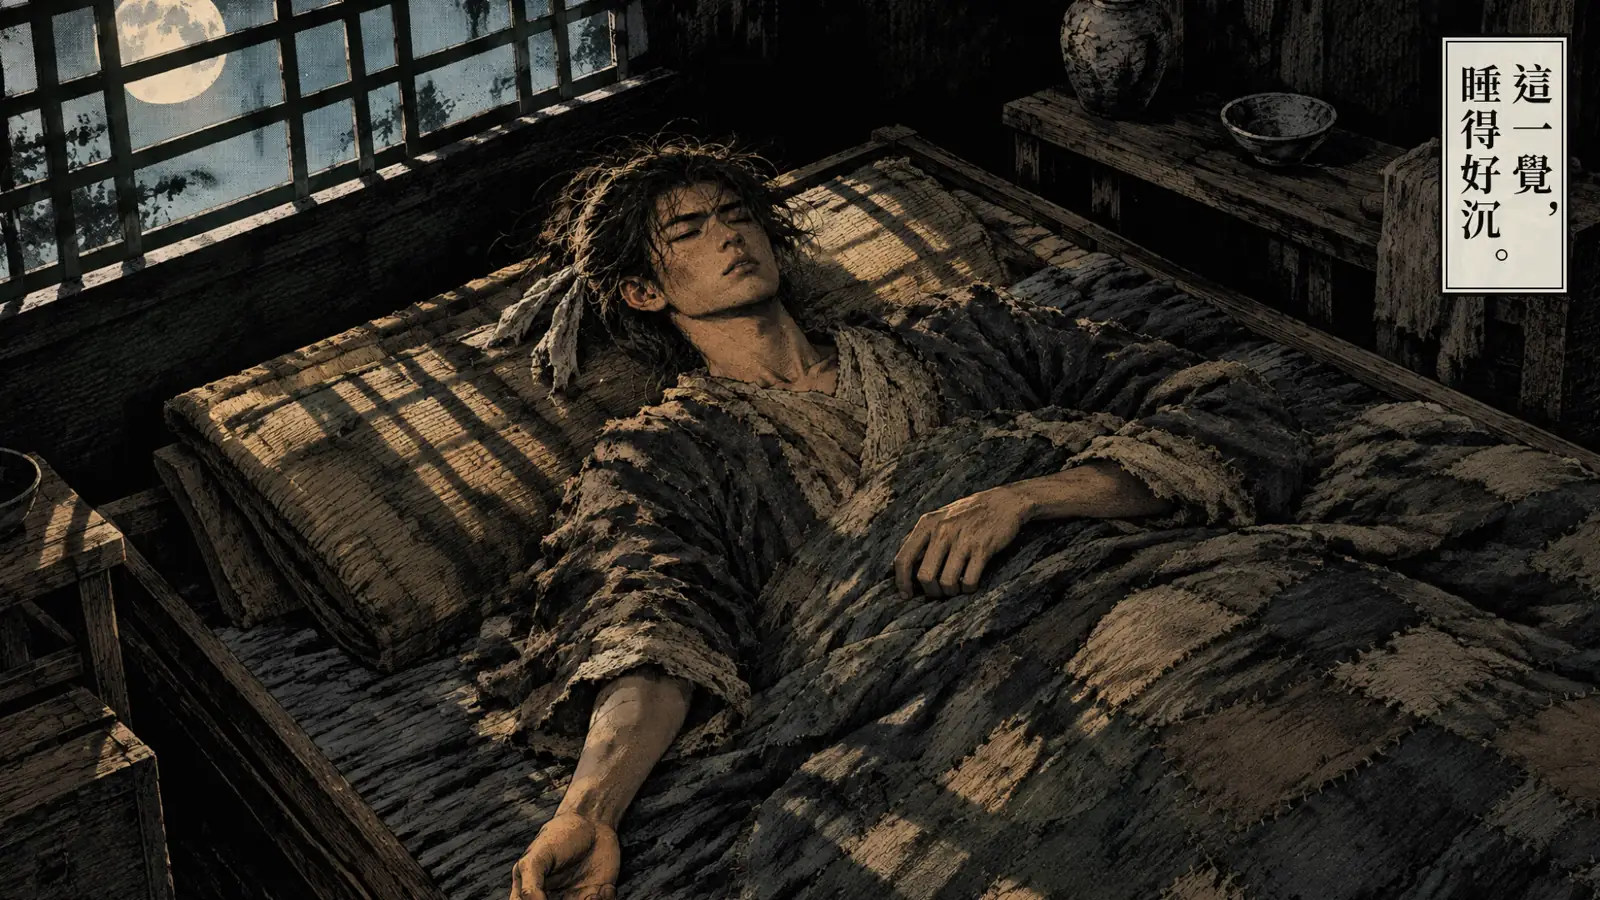
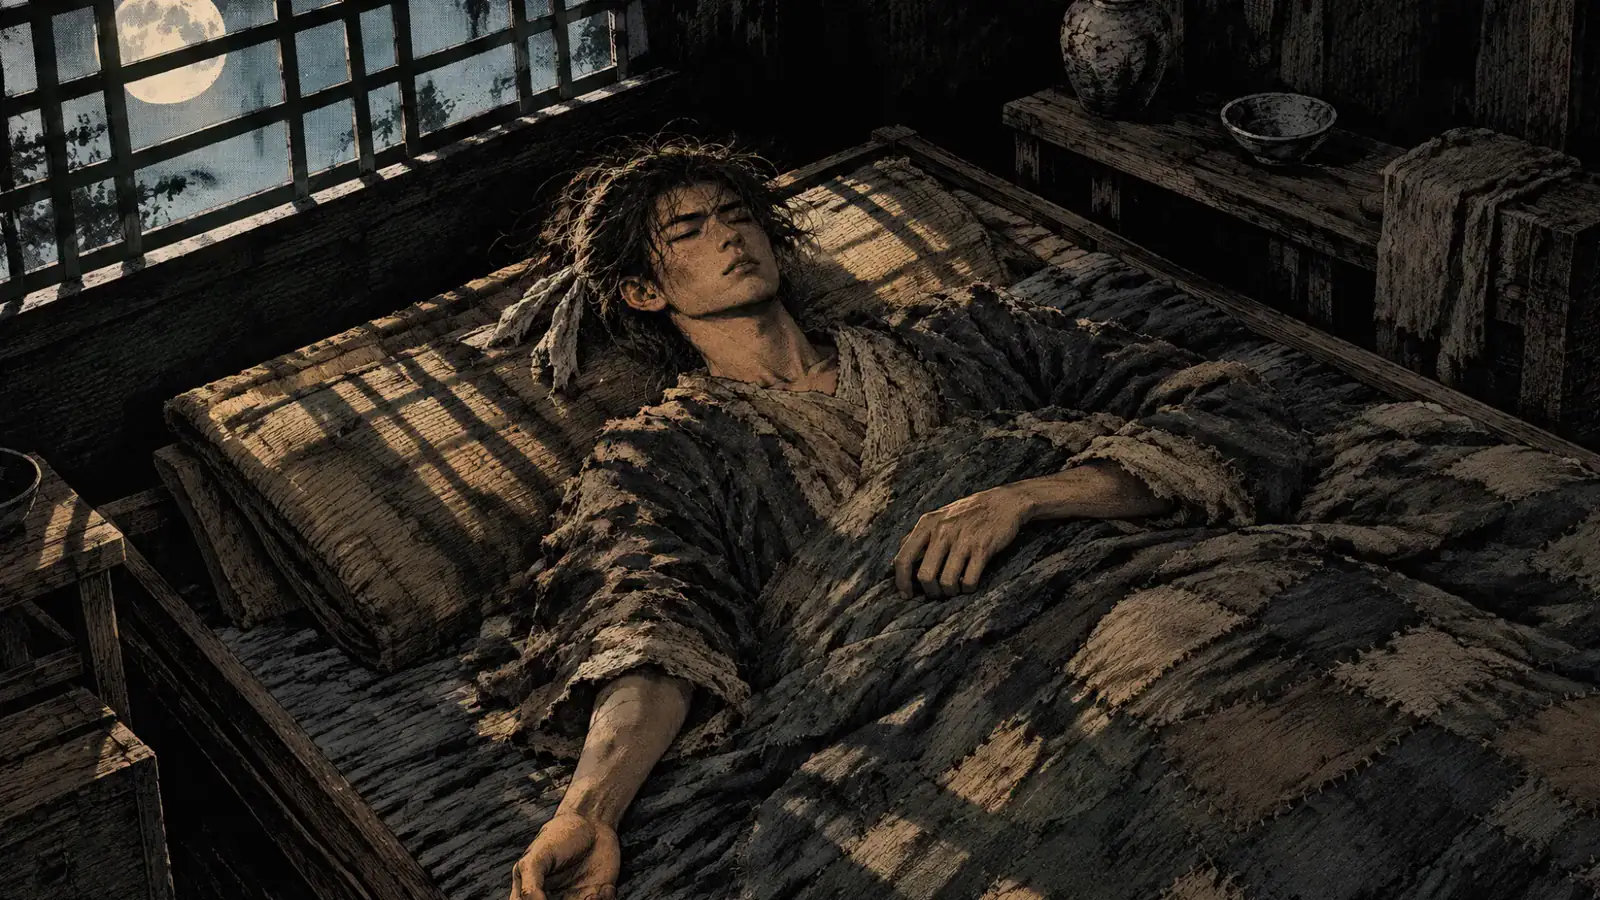
Take the prologue films' posters from their first frames
The game shows a poster while a film loads. Both posters were the frame
at 1.2 s, where 「這一覺，睡得好沉。」 is already on screen, so the caption
showed on the poster, vanished when playback began at 0 s, and faded in
again: the opening seemed to repeat. Most visible on the larger wide
cut, which takes longer to start. Each poster is now its film's first
frame, so playback starts exactly where the poster leaves off.

Claude-Session: https://claude.ai/code/session_01WcCcPMMNRDyiegqFEaWrsS

Changed region(s): [[0.875, 0.0311, 1.0, 0.3422]]

diff --git a/asset-gen/prologue-video/README.md b/asset-gen/prologue-video/README.md
@@ -20,7 +20,7 @@ captions and balloons are placed anew for each wide composition.
 (`game/assets/prologue-film-wide.mp4`, 1600 × 900) otherwise. A screen turned mid-film switches
 cuts and keeps its place. Both are re-encoded for streaming:
 `ffmpeg -i <cut> -vf scale=<size> -c:v libx264 -profile:v high -level 4.0 -crf 28 -pix_fmt yuv420p -movflags +faststart -c:a aac -b:a 128k <file>`.
-Their posters, `prologue-film.webp` and `prologue-film-wide.webp`, are the frame at 1.2 s. Replace
+Their posters, `prologue-film.webp` and `prologue-film-wide.webp`, are each film's first frame, so playback starts exactly where the poster leaves off (a later frame showed the first caption, which then appeared a second time). Replace
 all four when a cut changes.
 
 **Pacing.** About three seconds a panel on average, but each beat has its own length, and only
